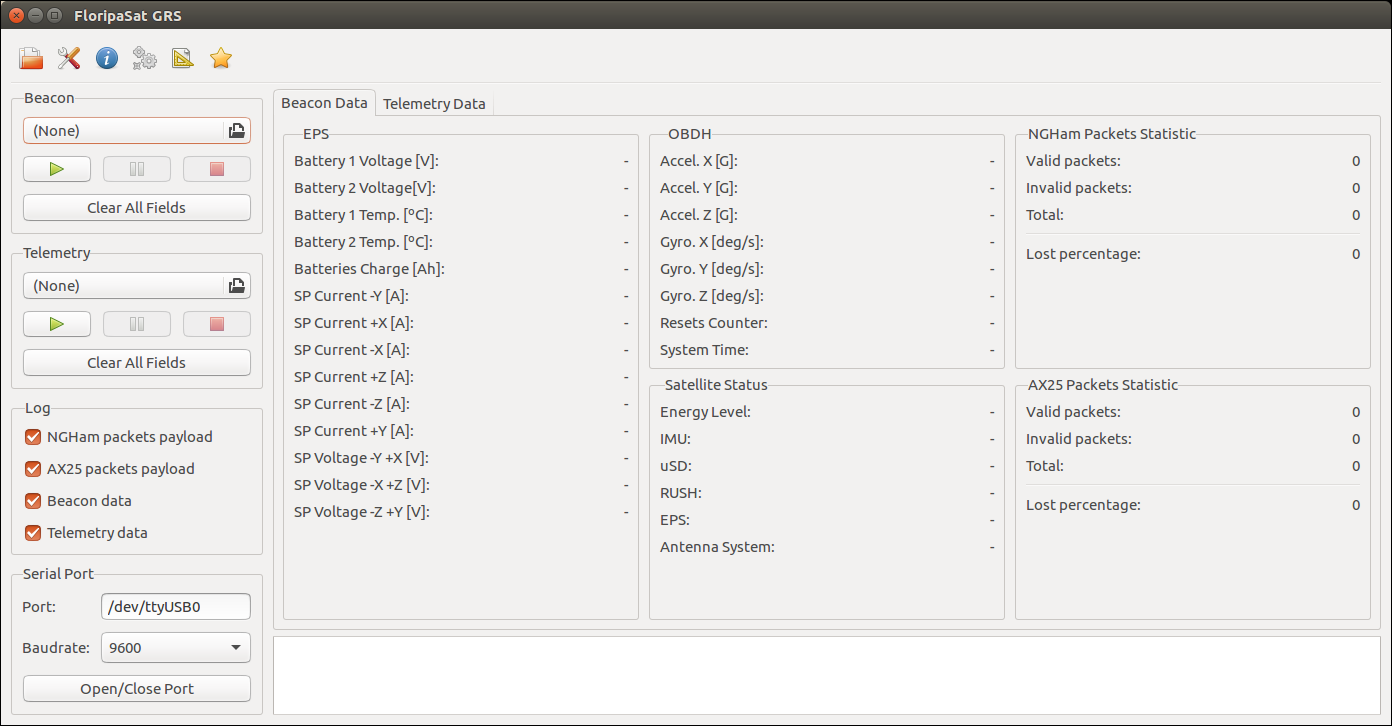
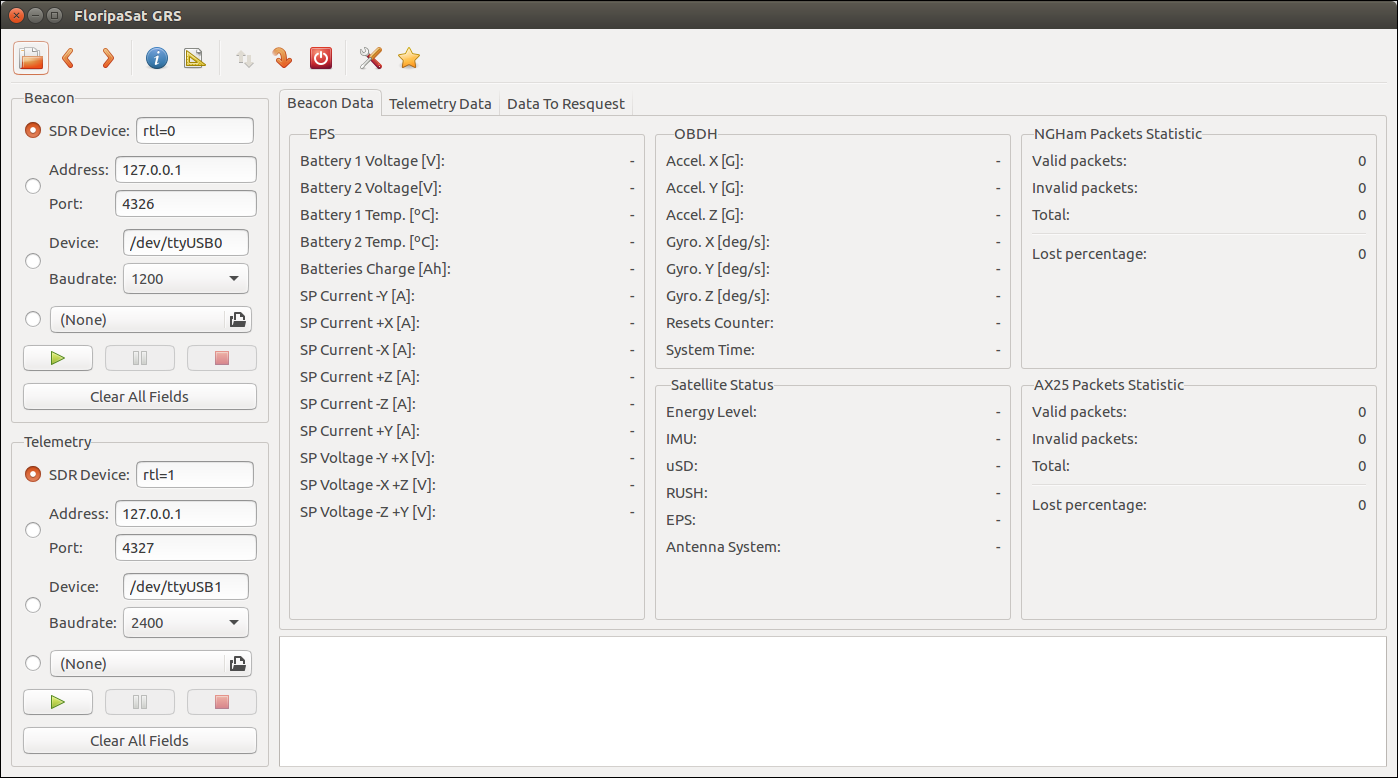
Activating the Select-Unselect buttons in "Data To Request" tab

diff --git a/src/fsat-grs.cpp b/src/fsat-grs.cpp
@@ -448,6 +448,92 @@ int FSatGRS::BuildWidgets(Glib::RefPtr<Gtk::Builder> ref_builder, const char *ui
     
     telemetry_ngham_statistic = new ProtocolStatistic(label_telemetry_pkt_statistic_total, label_telemetry_pkt_statistic_total, label_telemetry_pkt_statistic_total, label_telemetry_pkt_statistic_lost);
     
+    // Data to request
+    ref_builder->get_widget("checkbutton_imu_1_accel_x", checkbutton_imu_1_accel_x);
+    ref_builder->get_widget("checkbutton_imu_2_accel_x", checkbutton_imu_2_accel_x);
+    ref_builder->get_widget("checkbutton_imu_1_accel_y", checkbutton_imu_1_accel_y);
+    ref_builder->get_widget("checkbutton_imu_2_accel_y", checkbutton_imu_2_accel_y);
+    ref_builder->get_widget("checkbutton_imu_1_accel_z", checkbutton_imu_1_accel_z);
+    ref_builder->get_widget("checkbutton_imu_2_accel_z", checkbutton_imu_2_accel_z);
+    ref_builder->get_widget("checkbutton_imu_1_gyro_x", checkbutton_imu_1_gyro_x);
+    ref_builder->get_widget("checkbutton_imu_1_gyro_y", checkbutton_imu_1_gyro_y);
+    ref_builder->get_widget("checkbutton_imu_1_gyro_z", checkbutton_imu_1_gyro_z);
+    ref_builder->get_widget("checkbutton_imu_2_gyro_x", checkbutton_imu_2_gyro_x);
+    ref_builder->get_widget("checkbutton_imu_2_gyro_y", checkbutton_imu_2_gyro_y);
+    ref_builder->get_widget("checkbutton_imu_2_gyro_z", checkbutton_imu_2_gyro_z);
+    ref_builder->get_widget("checkbutton_sp_sun_p1", checkbutton_sp_sun_p1);
+    ref_builder->get_widget("checkbutton_sp_temp_p1", checkbutton_sp_temp_p1);
+    ref_builder->get_widget("checkbutton_sp_sun_p2", checkbutton_sp_sun_p2);
+    ref_builder->get_widget("checkbutton_sp_sun_p3", checkbutton_sp_sun_p3);
+    ref_builder->get_widget("checkbutton_sp_temp_p2", checkbutton_sp_temp_p2);
+    ref_builder->get_widget("checkbutton_sp_temp_p3", checkbutton_sp_temp_p3);
+    ref_builder->get_widget("checkbutton_reset_counter", checkbutton_reset_counter);
+    ref_builder->get_widget("checkbutton_clock_fault", checkbutton_clock_fault);
+    ref_builder->get_widget("checkbutton_reset_cause", checkbutton_reset_cause);
+    ref_builder->get_widget("checkbutton_obdh_uc_temp", checkbutton_obdh_uc_temp);
+    ref_builder->get_widget("checkbutton_system_time", checkbutton_system_time);
+    ref_builder->get_widget("checkbutton_imu_status", checkbutton_imu_status);
+    ref_builder->get_widget("checkbutton_sd_card_status", checkbutton_sd_card_status);
+    ref_builder->get_widget("checkbutton_rush_status", checkbutton_rush_status);
+    ref_builder->get_widget("checkbutton_eps_status", checkbutton_eps_status);
+    ref_builder->get_widget("checkbutton_antenna_status", checkbutton_antenna_status);
+    ref_builder->get_widget("checkbutton_obdh_uc_voltage", checkbutton_obdh_uc_voltage);
+    ref_builder->get_widget("checkbutton_obdh_uc_current", checkbutton_obdh_uc_current);
+    ref_builder->get_widget("checkbutton_system_up_time", checkbutton_system_up_time);
+    ref_builder->get_widget("checkbutton_rush_data", checkbutton_rush_data);
+    ref_builder->get_widget("button_request_obdh_select_all", button_request_obdh_select_all);
+    ref_builder->get_widget("button_request_obdh_unselect_all", button_request_obdh_unselect_all);
+    
+    if (button_request_obdh_select_all)
+    {
+        button_request_obdh_select_all->signal_clicked().connect(sigc::mem_fun(*this, &FSatGRS::OnButtonSelectOBDHDataClicked));
+    }
+    
+    if (button_request_obdh_unselect_all)
+    {
+        button_request_obdh_unselect_all->signal_clicked().connect(sigc::mem_fun(*this, &FSatGRS::OnButtonUnselectOBDHDataClicked));
+    }
+    
+    ref_builder->get_widget("checkbutton_bat_mean_current", checkbutton_bat_mean_current);
+    ref_builder->get_widget("checkbutton_bat_temperature", checkbutton_bat_temperature);
+    ref_builder->get_widget("checkbutton_bat_1_voltage", checkbutton_bat_1_voltage);
+    ref_builder->get_widget("checkbutton_bat_2_voltage", checkbutton_bat_2_voltage);
+    ref_builder->get_widget("checkbutton_bat_current", checkbutton_bat_current);
+    ref_builder->get_widget("checkbutton_bat_charge", checkbutton_bat_charge);
+    ref_builder->get_widget("checkbutton_bat_rsrc", checkbutton_bat_rsrc);
+    ref_builder->get_widget("checkbutton_energy_level", checkbutton_energy_level);
+    ref_builder->get_widget("checkbutton_sp_current_my", checkbutton_sp_current_my);
+    ref_builder->get_widget("checkbutton_sp_current_px", checkbutton_sp_current_px);
+    ref_builder->get_widget("checkbutton_sp_current_mx", checkbutton_sp_current_mx);
+    ref_builder->get_widget("checkbutton_sp_current_pz", checkbutton_sp_current_pz);
+    ref_builder->get_widget("checkbutton_sp_current_mz", checkbutton_sp_current_mz);
+    ref_builder->get_widget("checkbutton_sp_current_py", checkbutton_sp_current_py);
+    ref_builder->get_widget("checkbutton_sp_voltage_my_px", checkbutton_sp_voltage_my_px);
+    ref_builder->get_widget("checkbutton_sp_voltage_mx_pz", checkbutton_sp_voltage_mx_pz);
+    ref_builder->get_widget("checkbutton_sp_voltage_mz_py", checkbutton_sp_voltage_mz_py);
+    ref_builder->get_widget("checkbutton_eps_uc_temp", checkbutton_eps_uc_temp);
+    ref_builder->get_widget("checkbutton_bat_protection", checkbutton_bat_protection);
+    ref_builder->get_widget("checkbutton_bat_status", checkbutton_bat_status);
+    ref_builder->get_widget("checkbutton_bat_cycle_counting", checkbutton_bat_cycle_counting);
+    ref_builder->get_widget("checkbutton_bat_raac", checkbutton_bat_raac);
+    ref_builder->get_widget("checkbutton_bat_rsac", checkbutton_bat_rsac);
+    ref_builder->get_widget("checkbutton_bat_rarc", checkbutton_bat_rarc);
+    ref_builder->get_widget("checkbutton_boost_voltage", checkbutton_boost_voltage);
+    ref_builder->get_widget("checkbutton_main_bus_voltage", checkbutton_main_bus_voltage);
+    ref_builder->get_widget("checkbutton_beacon_current", checkbutton_beacon_current);
+    ref_builder->get_widget("button_request_eps_select_all", button_request_eps_select_all);
+    ref_builder->get_widget("button_request_eps_unselect_all", button_request_eps_unselect_all);
+    
+    if (button_request_eps_select_all)
+    {
+        button_request_eps_select_all->signal_clicked().connect(sigc::mem_fun(*this, &FSatGRS::OnButtonSelectEPSDataClicked));
+    }
+    
+    if (button_request_eps_unselect_all)
+    {
+        button_request_eps_unselect_all->signal_clicked().connect(sigc::mem_fun(*this, &FSatGRS::OnButtonUnselectEPSDataClicked));
+    }
+    
     // Plot dialog
     ref_builder->get_widget("dialog_plot", dialog_plot);
     ref_builder->get_widget("filechooserbutton_plot_beacon", filechooserbutton_plot_beacon);
@@ -1624,6 +1710,140 @@ void FSatGRS::OnButtonRunAnalysisClicked()
     {
         this->RaiseErrorMessage("No log file provided!", "To run a analysis, a log file must be provided.");
     }
+}
+
+void FSatGRS::OnButtonSelectOBDHDataClicked()
+{
+    checkbutton_imu_1_accel_x->set_active(true);
+    checkbutton_imu_2_accel_x->set_active(true);
+    checkbutton_imu_1_accel_y->set_active(true);
+    checkbutton_imu_2_accel_y->set_active(true);
+    checkbutton_imu_1_accel_z->set_active(true);
+    checkbutton_imu_2_accel_z->set_active(true);
+    checkbutton_imu_1_gyro_x->set_active(true);
+    checkbutton_imu_1_gyro_y->set_active(true);
+    checkbutton_imu_1_gyro_z->set_active(true);
+    checkbutton_imu_2_gyro_x->set_active(true);
+    checkbutton_imu_2_gyro_y->set_active(true);
+    checkbutton_imu_2_gyro_z->set_active(true);
+    checkbutton_sp_sun_p1->set_active(true);
+    checkbutton_sp_temp_p1->set_active(true);
+    checkbutton_sp_sun_p2->set_active(true);
+    checkbutton_sp_sun_p3->set_active(true);
+    checkbutton_sp_temp_p2->set_active(true);
+    checkbutton_sp_temp_p3->set_active(true);
+    checkbutton_reset_counter->set_active(true);
+    checkbutton_clock_fault->set_active(true);
+    checkbutton_reset_cause->set_active(true);
+    checkbutton_obdh_uc_temp->set_active(true);
+    checkbutton_system_time->set_active(true);
+    checkbutton_imu_status->set_active(true);
+    checkbutton_sd_card_status->set_active(true);
+    checkbutton_rush_status->set_active(true);
+    checkbutton_eps_status->set_active(true);
+    checkbutton_antenna_status->set_active(true);
+    checkbutton_obdh_uc_voltage->set_active(true);
+    checkbutton_obdh_uc_current->set_active(true);
+    checkbutton_system_up_time->set_active(true);
+    checkbutton_rush_data->set_active(true);
+}
+
+void FSatGRS::OnButtonUnselectOBDHDataClicked()
+{
+    checkbutton_imu_1_accel_x->set_active(false);
+    checkbutton_imu_2_accel_x->set_active(false);
+    checkbutton_imu_1_accel_y->set_active(false);
+    checkbutton_imu_2_accel_y->set_active(false);
+    checkbutton_imu_1_accel_z->set_active(false);
+    checkbutton_imu_2_accel_z->set_active(false);
+    checkbutton_imu_1_gyro_x->set_active(false);
+    checkbutton_imu_1_gyro_y->set_active(false);
+    checkbutton_imu_1_gyro_z->set_active(false);
+    checkbutton_imu_2_gyro_x->set_active(false);
+    checkbutton_imu_2_gyro_y->set_active(false);
+    checkbutton_imu_2_gyro_z->set_active(false);
+    checkbutton_sp_sun_p1->set_active(false);
+    checkbutton_sp_temp_p1->set_active(false);
+    checkbutton_sp_sun_p2->set_active(false);
+    checkbutton_sp_sun_p3->set_active(false);
+    checkbutton_sp_temp_p2->set_active(false);
+    checkbutton_sp_temp_p3->set_active(false);
+    checkbutton_reset_counter->set_active(false);
+    checkbutton_clock_fault->set_active(false);
+    checkbutton_reset_cause->set_active(false);
+    checkbutton_obdh_uc_temp->set_active(false);
+    checkbutton_system_time->set_active(false);
+    checkbutton_imu_status->set_active(false);
+    checkbutton_sd_card_status->set_active(false);
+    checkbutton_rush_status->set_active(false);
+    checkbutton_eps_status->set_active(false);
+    checkbutton_antenna_status->set_active(false);
+    checkbutton_obdh_uc_voltage->set_active(false);
+    checkbutton_obdh_uc_current->set_active(false);
+    checkbutton_system_up_time->set_active(false);
+    checkbutton_rush_data->set_active(false);
+}
+
+void FSatGRS::OnButtonSelectEPSDataClicked()
+{
+    checkbutton_bat_mean_current->set_active(true);
+    checkbutton_bat_temperature->set_active(true);
+    checkbutton_bat_1_voltage->set_active(true);
+    checkbutton_bat_2_voltage->set_active(true);
+    checkbutton_bat_current->set_active(true);
+    checkbutton_bat_charge->set_active(true);
+    checkbutton_bat_rsrc->set_active(true);
+    checkbutton_energy_level->set_active(true);
+    checkbutton_sp_current_my->set_active(true);
+    checkbutton_sp_current_px->set_active(true);
+    checkbutton_sp_current_mx->set_active(true);
+    checkbutton_sp_current_pz->set_active(true);
+    checkbutton_sp_current_mz->set_active(true);
+    checkbutton_sp_current_py->set_active(true);
+    checkbutton_sp_voltage_my_px->set_active(true);
+    checkbutton_sp_voltage_mx_pz->set_active(true);
+    checkbutton_sp_voltage_mz_py->set_active(true);
+    checkbutton_eps_uc_temp->set_active(true);
+    checkbutton_bat_protection->set_active(true);
+    checkbutton_bat_status->set_active(true);
+    checkbutton_bat_cycle_counting->set_active(true);
+    checkbutton_bat_raac->set_active(true);
+    checkbutton_bat_rsac->set_active(true);
+    checkbutton_bat_rarc->set_active(true);
+    checkbutton_boost_voltage->set_active(true);
+    checkbutton_main_bus_voltage->set_active(true);
+    checkbutton_beacon_current->set_active(true);
+}
+
+void FSatGRS::OnButtonUnselectEPSDataClicked()
+{
+    checkbutton_bat_mean_current->set_active(false);
+    checkbutton_bat_temperature->set_active(false);
+    checkbutton_bat_1_voltage->set_active(false);
+    checkbutton_bat_2_voltage->set_active(false);
+    checkbutton_bat_current->set_active(false);
+    checkbutton_bat_charge->set_active(false);
+    checkbutton_bat_rsrc->set_active(false);
+    checkbutton_energy_level->set_active(false);
+    checkbutton_sp_current_my->set_active(false);
+    checkbutton_sp_current_px->set_active(false);
+    checkbutton_sp_current_mx->set_active(false);
+    checkbutton_sp_current_pz->set_active(false);
+    checkbutton_sp_current_mz->set_active(false);
+    checkbutton_sp_current_py->set_active(false);
+    checkbutton_sp_voltage_my_px->set_active(false);
+    checkbutton_sp_voltage_mx_pz->set_active(false);
+    checkbutton_sp_voltage_mz_py->set_active(false);
+    checkbutton_eps_uc_temp->set_active(false);
+    checkbutton_bat_protection->set_active(false);
+    checkbutton_bat_status->set_active(false);
+    checkbutton_bat_cycle_counting->set_active(false);
+    checkbutton_bat_raac->set_active(false);
+    checkbutton_bat_rsac->set_active(false);
+    checkbutton_bat_rarc->set_active(false);
+    checkbutton_boost_voltage->set_active(false);
+    checkbutton_main_bus_voltage->set_active(false);
+    checkbutton_beacon_current->set_active(false);
 }
 
 void FSatGRS::RaiseErrorMessage(const char* error_title, const char* error_text)

diff --git a/src/fsat-grs.h b/src/fsat-grs.h
@@ -233,6 +233,72 @@ class FSatGRS
         Gtk::Label                      *label_telemetry_data_eps_misc_uc_temp;
         Gtk::Label                      *label_telemetry_data_eps_misc_energy_level;
         
+        // Data to request tab
+        Gtk::CheckButton                *checkbutton_imu_1_accel_x;
+        Gtk::CheckButton                *checkbutton_imu_2_accel_x;
+        Gtk::CheckButton                *checkbutton_imu_1_accel_y;
+        Gtk::CheckButton                *checkbutton_imu_2_accel_y;
+        Gtk::CheckButton                *checkbutton_imu_1_accel_z;
+        Gtk::CheckButton                *checkbutton_imu_2_accel_z;
+        Gtk::CheckButton                *checkbutton_imu_1_gyro_x;
+        Gtk::CheckButton                *checkbutton_imu_1_gyro_y;
+        Gtk::CheckButton                *checkbutton_imu_1_gyro_z;
+        Gtk::CheckButton                *checkbutton_imu_2_gyro_x;
+        Gtk::CheckButton                *checkbutton_imu_2_gyro_y;
+        Gtk::CheckButton                *checkbutton_imu_2_gyro_z;
+        Gtk::CheckButton                *checkbutton_sp_sun_p1;
+        Gtk::CheckButton                *checkbutton_sp_temp_p1;
+        Gtk::CheckButton                *checkbutton_sp_sun_p2;
+        Gtk::CheckButton                *checkbutton_sp_sun_p3;
+        Gtk::CheckButton                *checkbutton_sp_temp_p2;
+        Gtk::CheckButton                *checkbutton_sp_temp_p3;
+        Gtk::CheckButton                *checkbutton_reset_counter;
+        Gtk::CheckButton                *checkbutton_clock_fault;
+        Gtk::CheckButton                *checkbutton_reset_cause;
+        Gtk::CheckButton                *checkbutton_obdh_uc_temp;
+        Gtk::CheckButton                *checkbutton_system_time;
+        Gtk::CheckButton                *checkbutton_imu_status;
+        Gtk::CheckButton                *checkbutton_sd_card_status;
+        Gtk::CheckButton                *checkbutton_rush_status;
+        Gtk::CheckButton                *checkbutton_eps_status;
+        Gtk::CheckButton                *checkbutton_antenna_status;
+        Gtk::CheckButton                *checkbutton_obdh_uc_voltage;
+        Gtk::CheckButton                *checkbutton_obdh_uc_current;
+        Gtk::CheckButton                *checkbutton_system_up_time;
+        Gtk::CheckButton                *checkbutton_rush_data;
+        Gtk::Button                     *button_request_obdh_select_all;
+        Gtk::Button                     *button_request_obdh_unselect_all;
+        
+        Gtk::CheckButton                *checkbutton_bat_mean_current;
+        Gtk::CheckButton                *checkbutton_bat_temperature;
+        Gtk::CheckButton                *checkbutton_bat_1_voltage;
+        Gtk::CheckButton                *checkbutton_bat_2_voltage;
+        Gtk::CheckButton                *checkbutton_bat_current;
+        Gtk::CheckButton                *checkbutton_bat_charge;
+        Gtk::CheckButton                *checkbutton_bat_rsrc;
+        Gtk::CheckButton                *checkbutton_energy_level;
+        Gtk::CheckButton                *checkbutton_sp_current_my;
+        Gtk::CheckButton                *checkbutton_sp_current_px;
+        Gtk::CheckButton                *checkbutton_sp_current_mx;
+        Gtk::CheckButton                *checkbutton_sp_current_pz;
+        Gtk::CheckButton                *checkbutton_sp_current_mz;
+        Gtk::CheckButton                *checkbutton_sp_current_py;
+        Gtk::CheckButton                *checkbutton_sp_voltage_my_px;
+        Gtk::CheckButton                *checkbutton_sp_voltage_mx_pz;
+        Gtk::CheckButton                *checkbutton_sp_voltage_mz_py;
+        Gtk::CheckButton                *checkbutton_eps_uc_temp;
+        Gtk::CheckButton                *checkbutton_bat_protection;
+        Gtk::CheckButton                *checkbutton_bat_status;
+        Gtk::CheckButton                *checkbutton_bat_cycle_counting;
+        Gtk::CheckButton                *checkbutton_bat_raac;
+        Gtk::CheckButton                *checkbutton_bat_rsac;
+        Gtk::CheckButton                *checkbutton_bat_rarc;
+        Gtk::CheckButton                *checkbutton_boost_voltage;
+        Gtk::CheckButton                *checkbutton_main_bus_voltage;
+        Gtk::CheckButton                *checkbutton_beacon_current;
+        Gtk::Button                     *button_request_eps_select_all;
+        Gtk::Button                     *button_request_eps_unselect_all;
+        
         // Telemetry Packets Statistic
         Gtk::Label                      *label_telemetry_pkt_statistic_total;
         Gtk::Label                      *label_telemetry_pkt_statistic_lost;
@@ -443,6 +509,30 @@ class FSatGRS
          * \return None
          */
         void OnButtonRunAnalysisClicked();
+        /**
+         * \brief 
+         * 
+         * \return None
+         */
+        void OnButtonSelectOBDHDataClicked();
+        /**
+         * \brief 
+         * 
+         * \return None
+         */
+        void OnButtonUnselectOBDHDataClicked();
+        /**
+         * \brief 
+         * 
+         * \return None
+         */
+        void OnButtonSelectEPSDataClicked();
+        /**
+         * \brief 
+         * 
+         * \return None
+         */
+        void OnButtonUnselectEPSDataClicked();
         /**
          * \brief 
          * 
